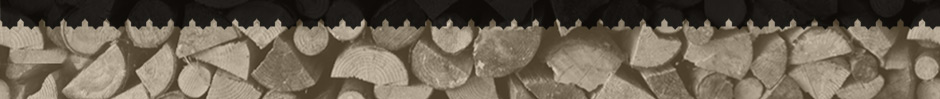
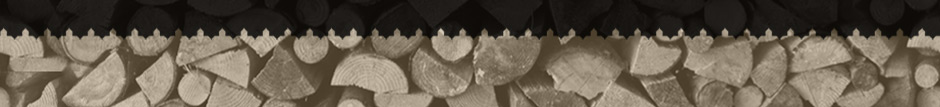
Fix title positions

diff --git a/root/apps/mainsite/static/css/screen.css b/root/apps/mainsite/static/css/screen.css
@@ -12,7 +12,7 @@ body {
 
 .header {
     background: url("../img/header-bg-inner.jpg") center top repeat-x;
-    height: 99px;
+    height: 107px;
     position: fixed;
     left: 0;
     right: 0;
@@ -20,12 +20,11 @@ body {
     z-index: 1030;
     margin-bottom: 0;
 }
-
-#home .header .container {
-    height: 293px;
+.header .container {
+    height: 107px;
 }
 body {
-    margin-top: 99px;
+    margin-top: 107px;
 }
 
 #home .header {
@@ -35,7 +34,6 @@ body {
 #home .header .container {
     height: 293px;
 }
-
 body#home {
     margin-top: 293px;
 }
@@ -59,10 +57,10 @@ h1.logo {
     height: 140px;
     position: relative;
     right: 0;
-    top: 51px;
+    top: 59px;
 }
 #home h1.logo {
-    top: 233px;
+    top: 245px;
 }
 
 /* ========================== HOME ======== */
